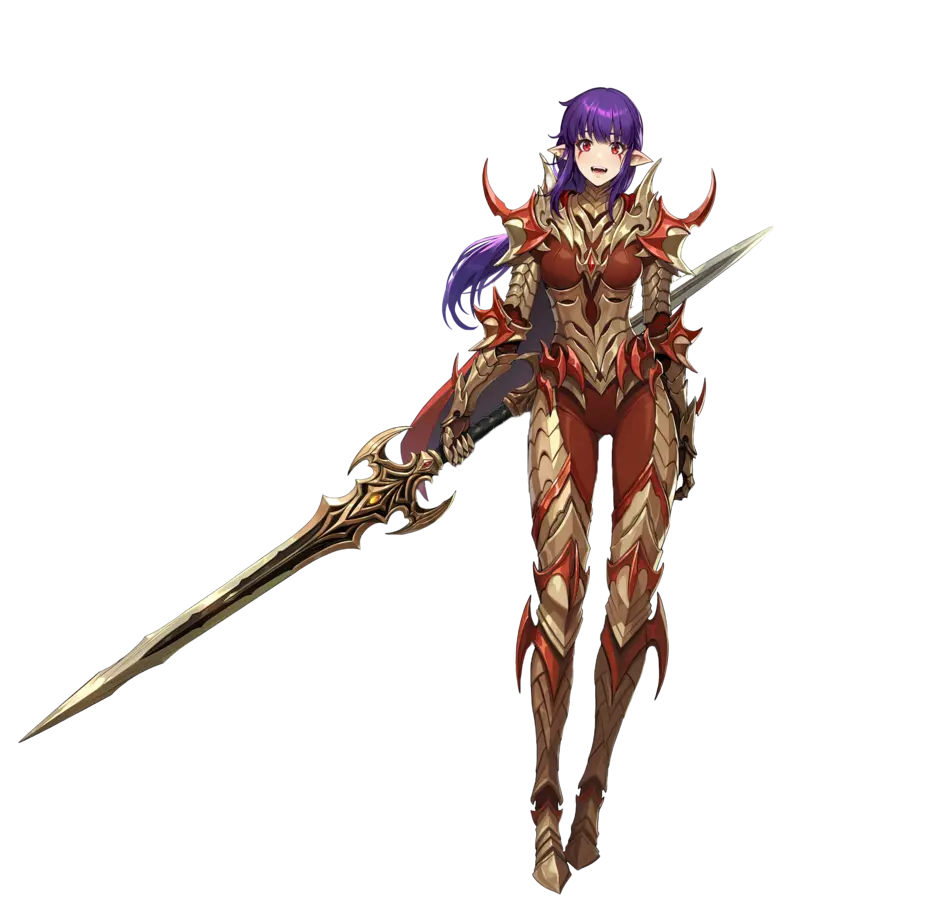
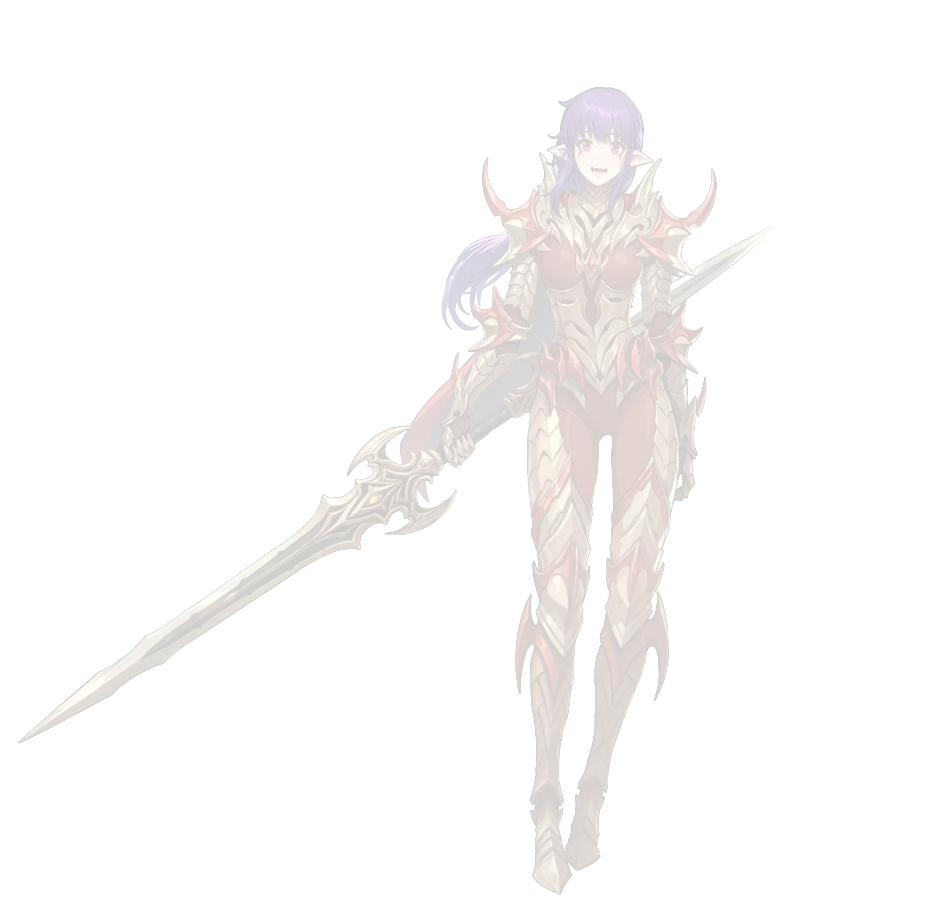
Update README to remove opacity from image

Changed region(s): [[0.0308, 0.093, 0.8321, 0.9922]]

diff --git a/README.md b/README.md
@@ -23,5 +23,5 @@
        <a href="https://www.linkedin.com/in/carlosxfelipe/">LinkedIn</a> | 
        <a href="https://www.instagram.com/carlosxfelipe/">Instagram</a>
   </samp>
-  <img src="https://raw.githubusercontent.com/carlosxfelipe/carlosxfelipe/main/Esil_Radiru.webp" width="100%" style="opacity:0.2;">
+  <img src="https://raw.githubusercontent.com/carlosxfelipe/carlosxfelipe/main/Esil_Radiru.webp" width="100%" >
 </p>
